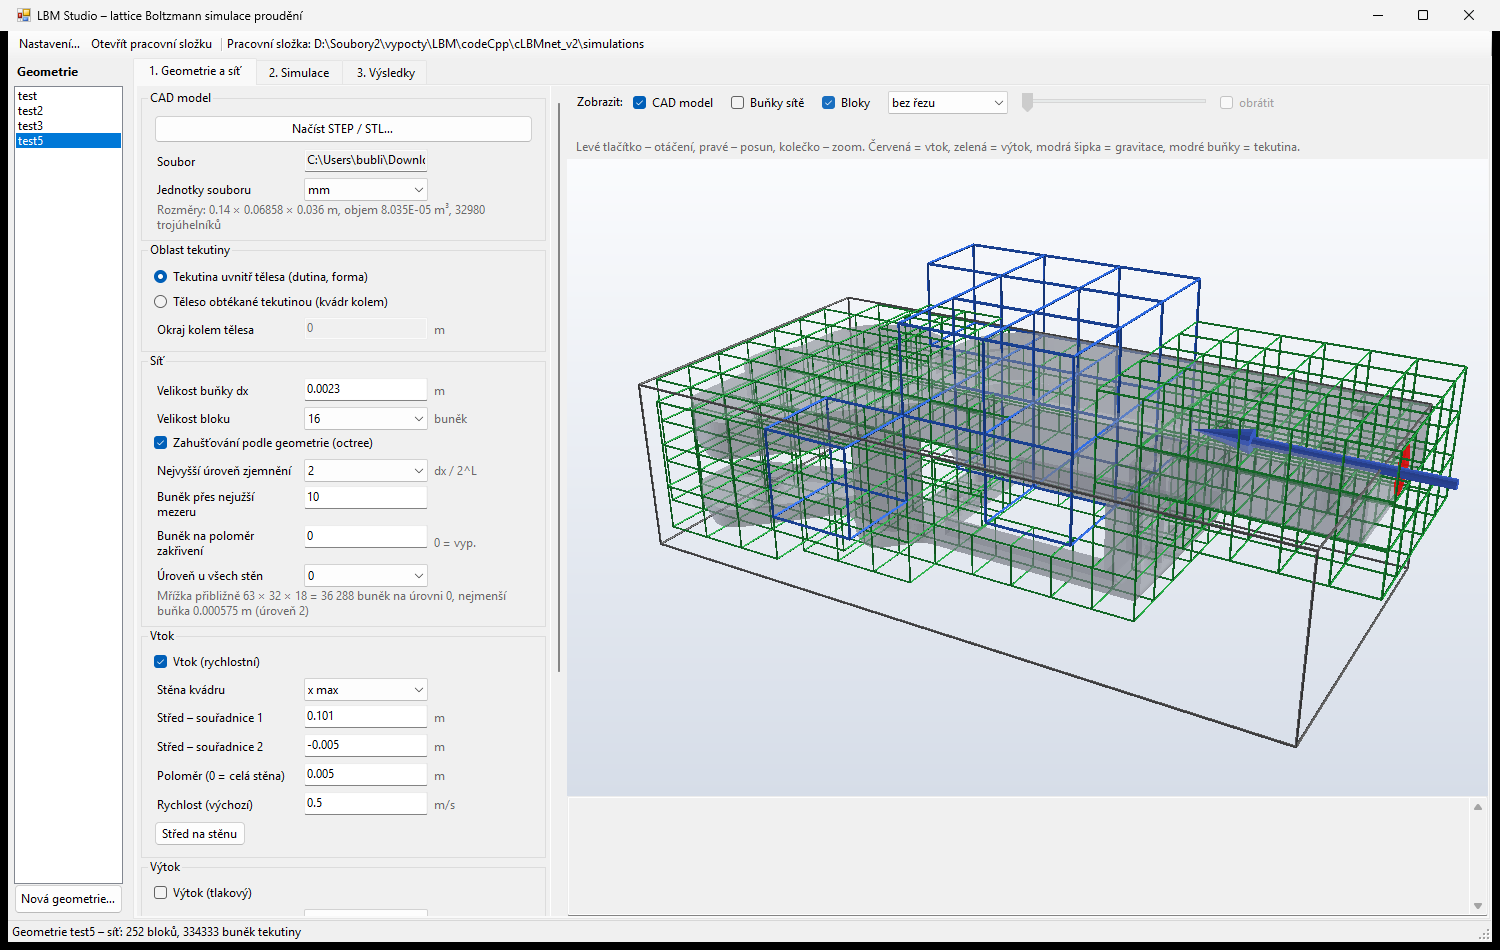
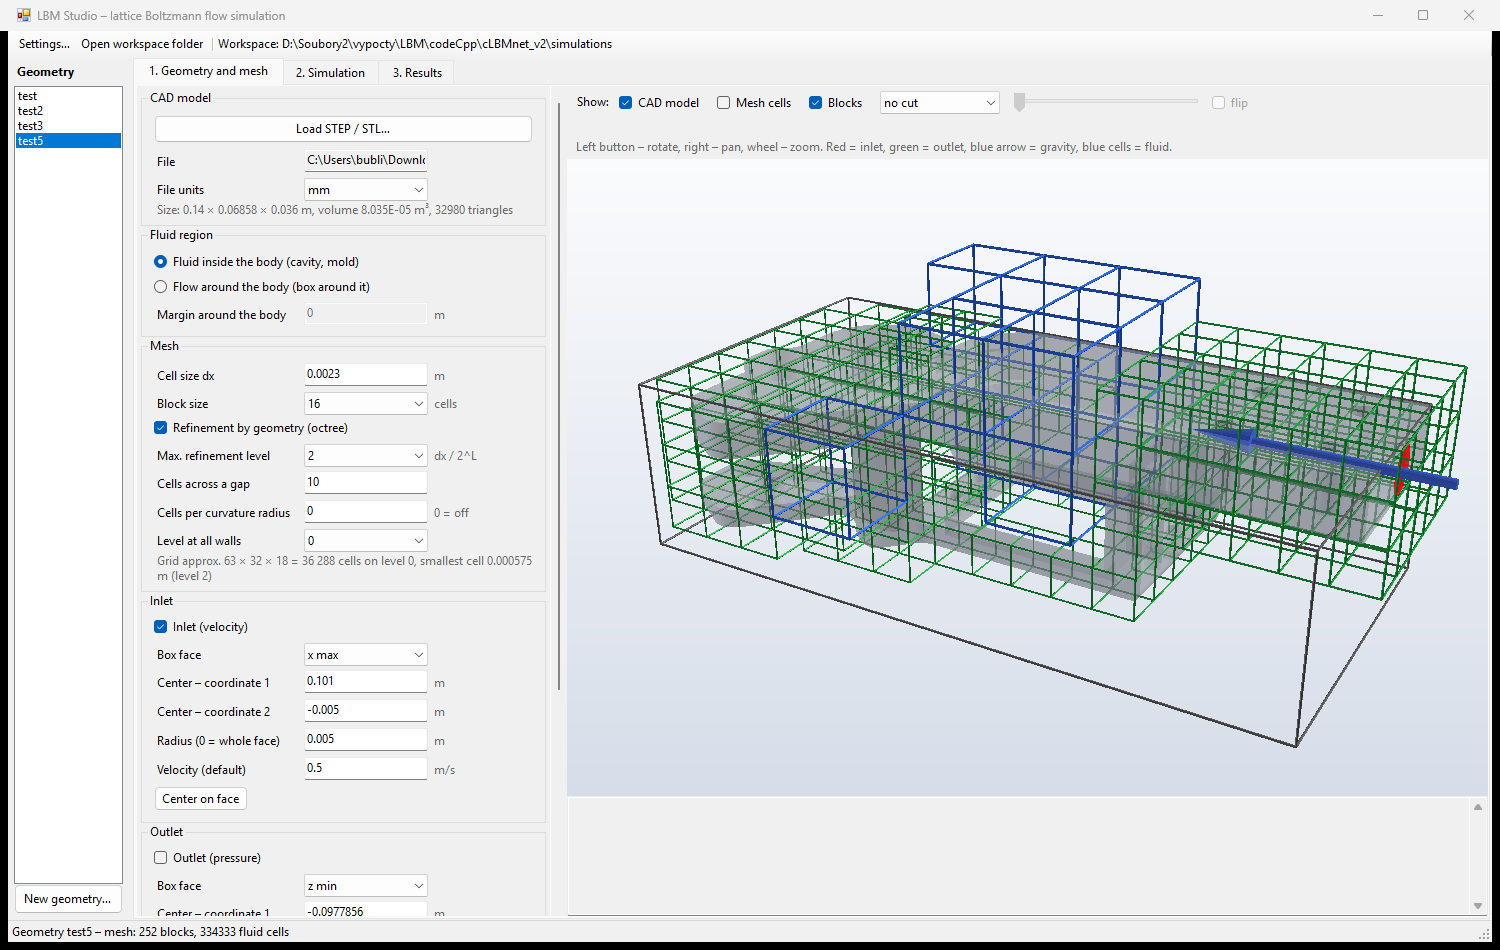
Write the README files in English, add Václav Heidler as author
Screenshots retaken from the English user interface.

diff --git a/README.md b/README.md
@@ -8,126 +8,127 @@ L       B    B  M      M  444444  U     U
 LLLLLL  BBBBB   M      M      4    UUUUU
 ```
 
-**LBM4U** je 3D řešič proudění tekutin metodou lattice Boltzmann (LBM) v C++ s OpenMP, zaměřený na **plnění forem s volnou hladinou**. Součástí je grafické rozhraní **LBM Studio**, které provede celým postupem od CAD modelu (STEP / STL) přes výpočetní síť a nastavení simulace až po prohlížení výsledků.
+**LBM4U** is a 3D lattice Boltzmann (LBM) fluid flow solver in C++ with OpenMP, focused on **mold filling with a free surface**. It comes with **LBM Studio**, a graphical interface that takes you through the whole workflow: from a CAD model (STEP / STL) to the computational mesh, the simulation setup and the results.
 
-![LBM Studio – výsledky plnění formy](docs/images/gui_results.png)
+![LBM Studio – mold filling results](docs/images/gui_results.png)
 
-## Vlastnosti
+## Features
 
-**Řešič (`cLBMnet`)**
+**Solver (`cLBMnet`)**
 
-* Mřížky D3Q19, D3Q15 a D2Q9, bloková struktura sítě paralelizovaná přes OpenMP.
-* Kolizní operátory **BGK, TRT a MRT**, Smagorinského **LES** model, Guo forcing.
-* **Volná hladina** (VOF/mass-tracking podle Thüreyho): výměna hmoty mezi buňkami rozhraní, redistribuce přebytku hmoty, povrchové napětí a kontaktní úhel.
-* **Ne-newtonské kapaliny**: power-law, Bingham, Cross, polynom; smyková rychlost z nerovnovážných momentů.
-* Okrajové podmínky: bounce-back stěna, rychlostní vtok, tlakový výtok (anti-bounce-back), pohyblivá stěna.
-* **Statické zahušťování sítě (octree)** podle geometrie: vyvážení 2:1, sub-cycling jemných úrovní, objemová metoda rozhraní úrovní (Rohde et al.), zachování hmoty na strojovou přesnost – i pro volnou hladinu.
-* Částice a vlákna: Lagrangeovské částice, vlákna a Eulerovský popis koncentrace (FVM / LBM).
-* Výstupy ve formátu **VTK XML** (`.vtu`, `.vtp`, `.pvd`) s kompresí zlib – přímo do ParaView, plus kompaktní `fields_<iter>.bin` pro GUI.
-* Volitelné populace v jednoduché přesnosti (`-DLBM_FP32=ON`) – poloviční paměť.
+* D3Q19, D3Q15 and D2Q9 lattices, block-structured mesh parallelized with OpenMP.
+* **BGK, TRT and MRT** collision operators, Smagorinsky **LES** model, Guo forcing.
+* **Free surface** (VOF / mass tracking after Thürey): mass exchange between interface cells, excess mass redistribution, surface tension and contact angle.
+* **Non-Newtonian fluids**: power-law, Bingham, Cross, polynomial; shear rate from the non-equilibrium moments.
+* Boundary conditions: bounce-back wall, velocity inlet, pressure outlet (anti-bounce-back), moving wall.
+* **Static octree grid refinement** driven by the geometry: 2:1 balancing, sub-cycling of the fine levels, volumetric level interface (Rohde et al.), mass conserved to machine precision – including the free surface.
+* Particles and fibers: Lagrangian particles, fibers and an Eulerian concentration model (FVM / LBM).
+* **VTK XML** output (`.vtu`, `.vtp`, `.pvd`) with zlib compression – opens directly in ParaView, plus compact `fields_<iter>.bin` files for the GUI.
+* Optional single precision populations (`-DLBM_FP32=ON`) – half the memory.
 
-**Grafické rozhraní (LBM Studio)**
+**Graphical interface (LBM Studio)**
 
-* Import STL a STEP (převod přes gmsh nebo FreeCAD), 3D náhled modelu.
-* Generování sítě včetně octree zahušťování podle nejužších mezer a zakřivení.
-* Vtok a výtok zadané graficky na stěně ohraničujícího kvádru.
-* Předvolby tekutin, reologické modely, odvozené veličiny (dt, τ, Machovo číslo, paměť) s varováním.
-* Spuštění a zastavení výpočtu, průběh max. rychlosti a hmotnosti v grafu.
-* Řezy libovolnou rovinou (|u|, složky rychlosti, tlak, VOF, stav buňky), vektory, časová osa s přehráváním, 3D hladina, otevření v ParaView.
+* STL and STEP import (conversion via gmsh or FreeCAD), 3D model preview.
+* Mesh generation including octree refinement by the narrowest gaps and the surface curvature.
+* Inlet and outlet placed graphically on a face of the bounding box.
+* Fluid presets, rheology models, derived quantities (dt, τ, Mach number, memory) with warnings.
+* Run and stop the solver, live chart of the maximum velocity and the fluid mass.
+* Slices along any axis (|u|, velocity components, pressure, VOF, cell state), vectors, time line with playback, 3D free surface, opening in ParaView.
 
-## LBM Studio – ukázka
+## LBM Studio – example
 
-Příklad `test5`: plnění dutiny formy motorovým olejem, 3 úrovně octree sítě (252 bloků, 334 333 buněk tekutiny).
+Case `test5`: filling of a mold cavity with engine oil, octree mesh with 3 levels (252 blocks, 334 333 fluid cells).
 
-**1. Geometrie a síť** – CAD model, vtok (červeně), gravitace (modrá šipka) a bloky sítě obarvené podle úrovně zahuštění.
+**1. Geometry and mesh** – CAD model, inlet (red), gravity (blue arrow) and mesh blocks colored by the refinement level.
 
-![Geometrie a síť](docs/images/gui_geometry.png)
+![Geometry and mesh](docs/images/gui_geometry.png)
 
-**2. Simulace** – tekutina, zatížení, numerika a průběh výpočtu.
+**2. Simulation** – fluid, loads, numerics and the progress of the computation.
 
-![Simulace](docs/images/gui_simulation.png)
+![Simulation](docs/images/gui_simulation.png)
 
-**3. Výsledky** – řez rychlostním polem a 3D tvar hladiny v čase t ≈ 0,95 s.
+**3. Results** – velocity slice and 3D shape of the free surface at t ≈ 0.95 s.
 
-![Výsledky](docs/images/gui_results.png)
+![Results](docs/images/gui_results.png)
 
-## Sestavení
+## Building
 
-Požadavky: CMake ≥ 3.16, kompilátor C++17 s OpenMP (Visual Studio 2022 nebo MSYS2 MinGW g++). GUI potřebuje .NET Framework 4.8 (kompilátor C# z Visual Studia) nebo .NET SDK.
+Requirements: CMake ≥ 3.16, a C++17 compiler with OpenMP (Visual Studio 2022 or MSYS2 MinGW g++). The GUI needs .NET Framework 4.8 (C# compiler of Visual Studio) or the .NET SDK.
 
 ```bat
 build.bat            :: Visual Studio 2022 (MSVC, OpenMP /openmp:llvm)
-build.bat mingw      :: MSYS2 g++ + Ninja, staticky linkovaný exe
+build.bat mingw      :: MSYS2 g++ + Ninja, statically linked exe
 gui\build_gui.bat    :: LBM Studio -> gui\bin\LBMStudio.exe
 ```
 
-Na Linuxu nebo ručně:
+On Linux or manually:
 
 ```bash
-cmake -S . -B build -DCMAKE_BUILD_TYPE=Release   # volitelně -DLBM_FP32=ON
+cmake -S . -B build -DCMAKE_BUILD_TYPE=Release   # optionally -DLBM_FP32=ON
 cmake --build build
 ```
 
-Vznikne řešič `cLBMnet` a unit testy `lbm_tests`.
+This builds the solver `cLBMnet` and the unit tests `lbm_tests`.
 
-## Spuštění řešiče
+## Running the solver
 
-Nejjednodušší je pracovat přes LBM Studio, které připraví síť i parametry a řešič spouští samo. Z příkazové řádky:
+The easiest way is LBM Studio, which prepares the mesh and the parameters and runs the solver itself. From the command line:
 
 ```bat
-cLBMnet                                :: čte "geometrie simulace" z args.txt
-cLBMnet <geometrie> <simulace>         :: simulations/<geometrie>/<simulace>/
-cLBMnet --paths <adresářGeometrie> <adresářSimulace>
+cLBMnet                                :: reads "geometry simulation" from args.txt
+cLBMnet <geometry> <simulation>        :: simulations/<geometry>/<simulation>/
+cLBMnet --paths <geometryDir> <simulationDir>
 ```
 
-Struktura úlohy:
+Case layout:
 
 ```
 simulations/
-└── <geometrie>/
-    ├── geometry.ini, geometry.stl     # zadání geometrie (GUI)
+└── <geometry>/
+    ├── geometry.ini, geometry.stl     # geometry definition (GUI)
     ├── mesh/                          # blocks.txt, boundary/*.txt, celltypes.bin, octree.bin
-    └── <simulace>/
-        ├── parameters.txt             # parametry výpočtu
-        ├── init/                      # počáteční stav
+    └── <simulation>/
+        ├── parameters.txt             # solver parameters
+        ├── init/                      # initial state
         └── result/                    # output.pvd, outputFS.pvd, *.vtu, *.vtp, fields_<iter>.bin
 ```
 
-* Výpočet lze předčasně ukončit vytvořením souboru `STOP` v adresáři simulace – výsledky se uloží.
-* Návratový kód 3 znamená divergenci (NaN).
-* Výsledky se otevřou v ParaView přes `result/output.pvd` (objem) a `result/outputFS.pvd` (hladina).
+* A run can be stopped early by creating a file named `STOP` in the simulation directory – the results are saved.
+* Exit code 3 means divergence (NaN).
+* Open the results in ParaView via `result/output.pvd` (volume) and `result/outputFS.pvd` (free surface).
 
-## Testy
+## Tests
 
 ```bat
 cd build-msvc\Release
-lbm_tests.exe              :: všechny testy
-lbm_tests.exe refinement   :: jen testy, jejichž název obsahuje "refinement"
+lbm_tests.exe              :: all tests
+lbm_tests.exe refinement   :: only tests whose name contains "refinement"
 ```
 
-Testy pokrývají kolizní operátory, Poiseuilleovo proudění (přesnost TRT/MRT), volnou hladinu (zachování hmoty, protržení hráze, klidová hladina) a zahušťování sítě.
+The tests cover the collision operators, Poiseuille flow (TRT/MRT accuracy), the free surface (mass conservation, dam break, fluid at rest) and the grid refinement.
 
-GUI má automatický test celého řetězce (import, síť, simulace, výsledky, snímky obrazovky):
+The GUI has an automatic test of the whole chain (import, mesh, simulation, results, screenshots):
 
 ```bat
-gui\bin\LBMStudio.exe --selftest <soubor.stl|step> <výstupní složka> [cLBMnet.exe] [--refine]
+gui\bin\LBMStudio.exe --selftest <file.stl|step> <output dir> [cLBMnet.exe] [--refine]
 ```
 
-## Struktura repozitáře
+## Repository layout
 
-| Cesta | Obsah |
+| Path | Contents |
 |---|---|
-| `main.cpp` | hlavní smyčka řešiče |
-| `Mesh.*` | bloková síť, octree, výměna mezi bloky, výstupy |
-| `Block*.*` | bloky: jednofázové proudění, volná hladina, částice a vlákna |
-| `Collision.*` | kolizní operátory BGK / TRT / MRT, LES |
-| `Lagrange*.*`, `MarchingCubes.*` | částice, vlákna, rekonstrukce hladiny |
-| `Deflate.*` | vlastní kompresor pro VTK a `fields_*.bin` (bez závislosti na zlib) |
-| `tests/` | unit testy |
-| `gui/` | LBM Studio (C#, WinForms + WPF 3D) – [popis](gui/README.md) |
-| `matlab/` | starší MATLAB skripty pro přípravu úloh |
-| `ZMENY.md` | [přehled změn](ZMENY.md), numerické detaily a formát `fields_<iter>.bin` |
+| `main.cpp` | main loop of the solver |
+| `Mesh.*` | block mesh, octree, exchange between blocks, output |
+| `Block*.*` | blocks: single phase flow, free surface, particles and fibers |
+| `Collision.*` | BGK / TRT / MRT collision operators, LES |
+| `Lagrange*.*`, `MarchingCubes.*` | particles, fibers, free surface reconstruction |
+| `Deflate.*` | own compressor for VTK and `fields_*.bin` (no zlib dependency) |
+| `tests/` | unit tests |
+| `gui/` | LBM Studio (C#, WinForms + WPF 3D) – [description](gui/README.md) |
+| `matlab/` | older MATLAB scripts for case preparation |
+| `ZMENY.md` | [change log](ZMENY.md) (in Czech): numerical details and the `fields_<iter>.bin` format |
 
-## Autor
+## Authors
 
-Ondřej Bublík
+* Ondřej Bublík
+* Václav Heidler

diff --git a/gui/README.md b/gui/README.md
@@ -1,44 +1,44 @@
-# LBM Studio – grafické rozhraní řešiče cLBMnet
+# LBM Studio – graphical interface of the cLBMnet solver
 
-WinForms aplikace (C#, .NET Framework 4.8, 3D náhled přes WPF) pro přípravu geometrie, výpočetní sítě, spouštění simulací a prohlížení výsledků.
+WinForms application (C#, .NET Framework 4.8, 3D view via WPF) for preparing the geometry and the computational mesh, running simulations and viewing the results.
 
-## Sestavení
-
-```
-gui\build_gui.bat          # kompilátor C# z Visual Studia 2022, výstup gui\bin\LBMStudio.exe
-```
-
-Alternativně s nainstalovaným .NET SDK: `dotnet build gui/LBMStudio/LBMStudio.csproj` (net8.0-windows).
-Řešič `cLBMnet.exe` se hledá vedle aplikace, v kořeni repozitáře a v `build-msvc\Release` / `build-mingw`; cestu lze nastavit v **Nastavení**.
-
-## Postup
-
-1. **Geometrie a síť**
-   * *Nová geometrie…* vytvoří složku `<pracovní složka>/<název>`.
-   * *Načíst STEP / STL…* – STL se načte přímo, STEP se převede na STL přes **gmsh** (`gmsh.exe` nebo Python modul `gmsh`) nebo **FreeCAD** (`FreeCADCmd.exe`). Bez nich je potřeba exportovat STL z CAD.
-   * Jednotky souboru (STEP z převodníku je v mm).
-   * Oblast tekutiny: uvnitř tělesa (dutina formy) nebo kolem tělesa (obtékání, kvádr s okrajem).
-   * Velikost buňky `dx` a bloku (16³ je dobrý kompromis).
-   * *Zahušťování podle geometrie (octree)*: `dx` je velikost buňky úrovně 0, nejvyšší úroveň `L` dává nejmenší buňku `dx / 2^L`.
-     * *Buněk přes nejužší mezeru* – z povrchu STL vede paprsek proti normále (do tekutiny) k protější stěně. Bloky podél mezery šířky `h` dostanou úroveň s `dx_L ≤ h / N`. Mezery širší než `N · dx` se nezahušťují.
-     * *Buněk na poloměr zakřivení* (0 = vypnuto) – poloměr se odhadne z úhlu sousedních trojúhelníků. Ostré hrany (úhel nad 60°) se neberou jako zakřivení.
-     * *Úroveň u všech stěn* – minimální úroveň bloků s povrchem tělesa.
-     * Síť se vyváží 2:1 a každý blok se voxelizuje na své úrovni (tenká mezera, kterou úroveň 0 nerozliší, se tak neztratí). Bloky bez tekutiny se vynechají. Náhled *Bloky* je obarvený podle úrovně (0 šedá, 1 modrá, 2 zelená, 3 oranžová, 4 červená), *Buňky sítě* ukazují každý blok v jeho rozlišení.
-   * Vtok a výtok: stěna ohraničujícího kvádru, střed a poloměr (0 = celá stěna). Označí se buňky před povrchem tekutiny.
-   * Gravitace (výchozí hodnota pro simulace).
-   * *Vytvořit výpočetní síť* zapíše `mesh/blocks.txt`, `mesh/boundary/*.txt` a `mesh/celltypes.bin` (u zahuštěné sítě navíc `mesh/octree.bin`, `celltypes.bin` je pak v rozlišení úrovně 0 jen pro náhled).
-2. **Simulace** – libovolný počet simulací nad jednou sítí (každá ve své podsložce).
-   * Úloha: volná hladina (plnění) nebo jednofázové proudění.
-   * Tekutina z předvoleb nebo vlastní, reologické modely (power-law, Bingham, Cross, polynom).
-   * Rychlost vtoku, přetlak výtoku, gravitace, počáteční stav (prázdná / plná / hladina do výšky).
-   * Numerika: MRT + LES (C = 0,15) jsou výchozí a stabilní i pro vodu; panel *Odvozené veličiny* ukazuje dt, τ, počet iterací, Machovo číslo, paměť a varování.
-   * *Spustit* / *Zastavit* (řešič uloží výsledky a skončí), průběh max. rychlosti a hmotnosti v grafu.
-3. **Výsledky** – u zahuštěné sítě se řezy skládají v nejjemnější úrovni, při které mřížka nepřesáhne 64 milionů buněk. Řez libovolnou rovinou (|u|, složky rychlosti, tlak, VOF, stav buněk), volitelně vektory, časová osa s přehráváním, 3D zobrazení hladiny, export obrázku a otevření v ParaView (`result/output.pvd`, `outputFS.pvd`).
-
-## Automatický test
+## Building
 
 ```
-gui\bin\LBMStudio.exe --selftest <soubor.stl|step> <výstupní složka> [cLBMnet.exe] [--refine]
+gui\build_gui.bat          # C# compiler of Visual Studio 2022, output gui\bin\LBMStudio.exe
 ```
 
-Projde celý řetězec (import, síť, simulace plnění vodou, výsledky) a uloží snímky obrazovky všech záložek. S `--refine` vytvoří zahuštěnou síť: 2 úrovně, 10 buněk přes mezeru, vtok nad první pětinou tělesa v ose x.
+Alternatively with the .NET SDK installed: `dotnet build gui/LBMStudio/LBMStudio.csproj` (net8.0-windows).
+The solver `cLBMnet.exe` is searched next to the application, in the repository root and in `build-msvc\Release` / `build-mingw`; the path can be set in **Settings**.
+
+## Workflow
+
+1. **Geometry and mesh**
+   * *New geometry…* creates the folder `<workspace>/<name>`.
+   * *Load STEP / STL…* – STL is loaded directly, STEP is converted to STL with **gmsh** (`gmsh.exe` or the Python module `gmsh`) or **FreeCAD** (`FreeCADCmd.exe`). Without them, export STL from your CAD.
+   * File units (STEP from the converter is in mm).
+   * Fluid region: inside the body (mold cavity) or around the body (external flow, box with a margin).
+   * Cell size `dx` and block size (16³ is a good compromise).
+   * *Refinement by geometry (octree)*: `dx` is the cell size of level 0, the max. level `L` gives the smallest cell `dx / 2^L`.
+     * *Cells across a gap* – a ray is cast from the STL surface against the normal (into the fluid) to the opposite wall. Blocks along a gap of width `h` get the level with `dx_L ≤ h / N`. Gaps wider than `N · dx` are not refined.
+     * *Cells per curvature radius* (0 = off) – the radius is estimated from the angle of neighboring triangles. Sharp edges (angle above 60°) are not taken as curvature.
+     * *Level at all walls* – minimum level of the blocks containing the body surface.
+     * The mesh is balanced 2:1 and each block is voxelized on its own level (a thin gap that level 0 cannot resolve is not lost). Blocks without fluid are skipped. The *Blocks* view is colored by level (0 gray, 1 blue, 2 green, 3 orange, 4 red), *Mesh cells* show each block in its own resolution.
+   * Inlet and outlet: face of the bounding box, center and radius (0 = whole face). The cells in front of the fluid surface are marked.
+   * Gravity (default value for the simulations).
+   * *Generate mesh* writes `mesh/blocks.txt`, `mesh/boundary/*.txt` and `mesh/celltypes.bin` (a refined mesh also writes `mesh/octree.bin`, `celltypes.bin` is then in the level 0 resolution for the preview only).
+2. **Simulation** – any number of simulations on one mesh (each in its own subfolder).
+   * Problem: free surface (filling) or single phase flow.
+   * Fluid from presets or custom, rheology models (power-law, Bingham, Cross, polynomial).
+   * Inlet velocity, outlet gauge pressure, gravity, initial state (empty / completely filled / filled up to a level).
+   * Numerics: MRT + LES (C = 0.15) are the defaults and stable even for water; the *Derived quantities* panel shows dt, τ, the number of iterations, the Mach number, memory and warnings.
+   * *Run* / *Stop* (the solver saves the results and ends), maximum velocity and mass in a chart.
+3. **Results** – for a refined mesh the slices are assembled on the finest level at which the grid does not exceed 64 million cells. Slice along any axis (|u|, velocity components, pressure, VOF, cell state), optional vectors, time line with playback, 3D free surface, image export and opening in ParaView (`result/output.pvd`, `outputFS.pvd`).
+
+## Automatic test
+
+```
+gui\bin\LBMStudio.exe --selftest <file.stl|step> <output folder> [cLBMnet.exe] [--refine]
+```
+
+Runs the whole chain (import, mesh, water filling simulation, results) and saves screenshots of all tabs. With `--refine` it creates a refined mesh: 2 levels, 10 cells across a gap, inlet above the first fifth of the body in x.
